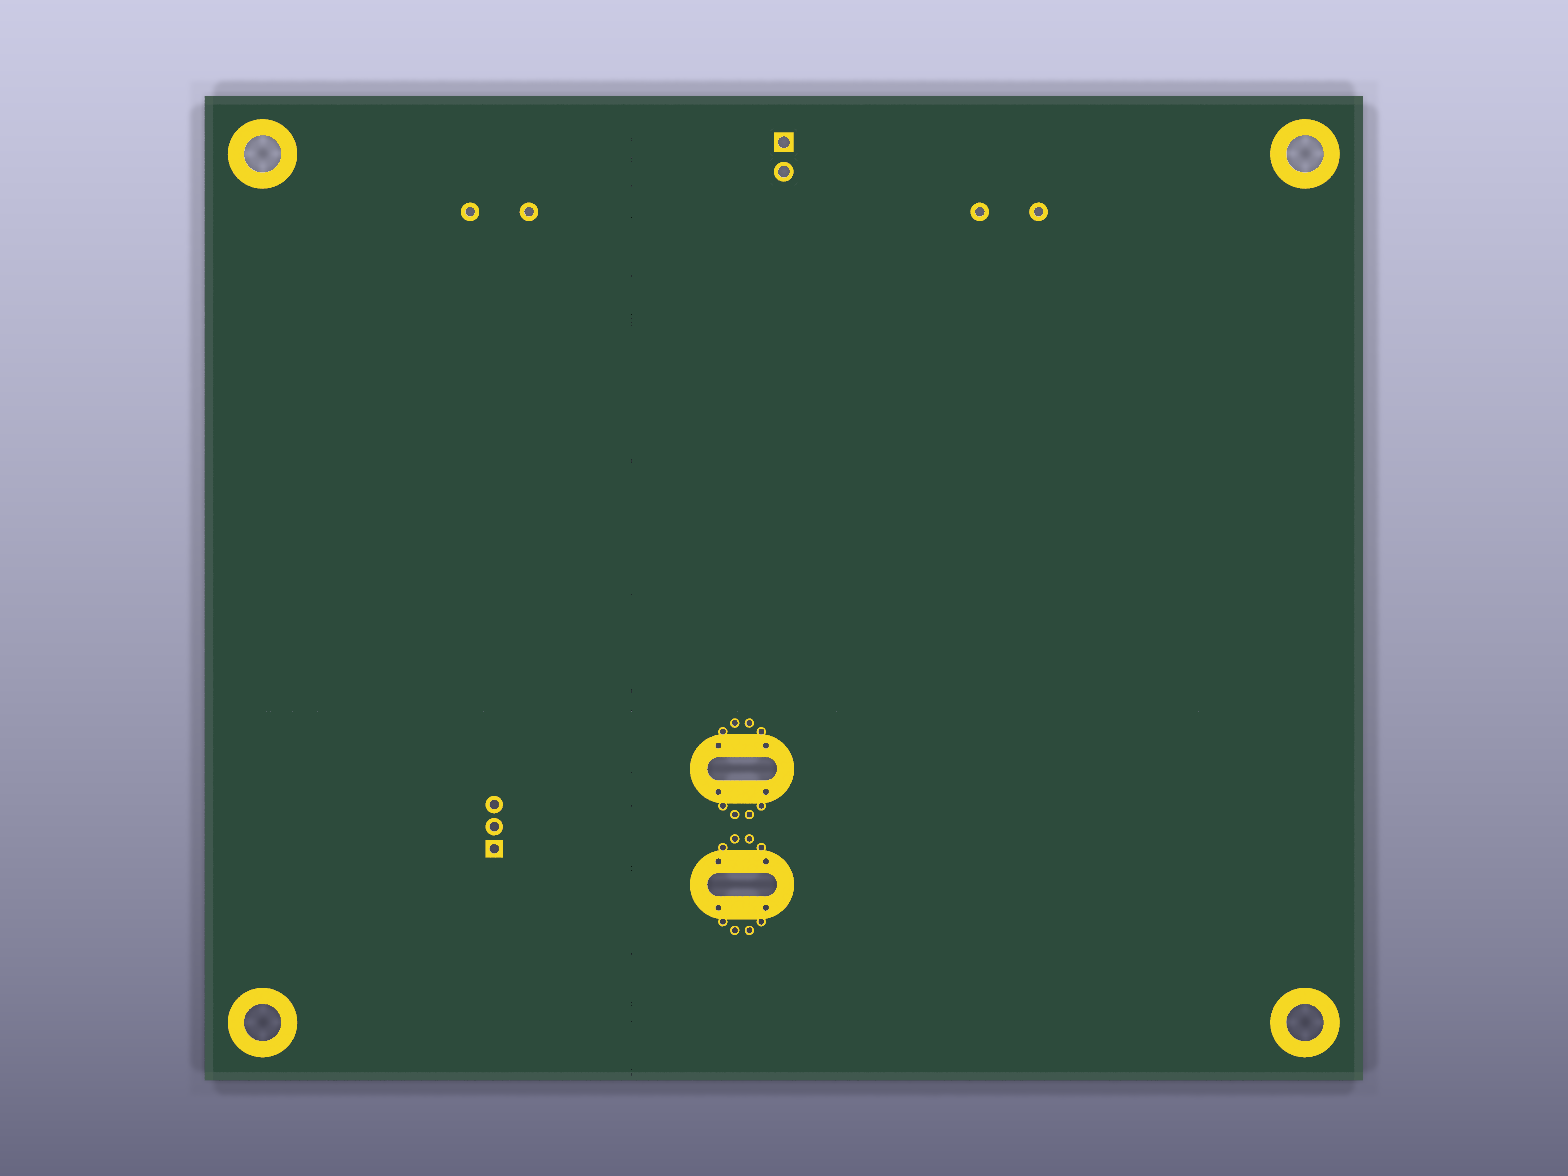
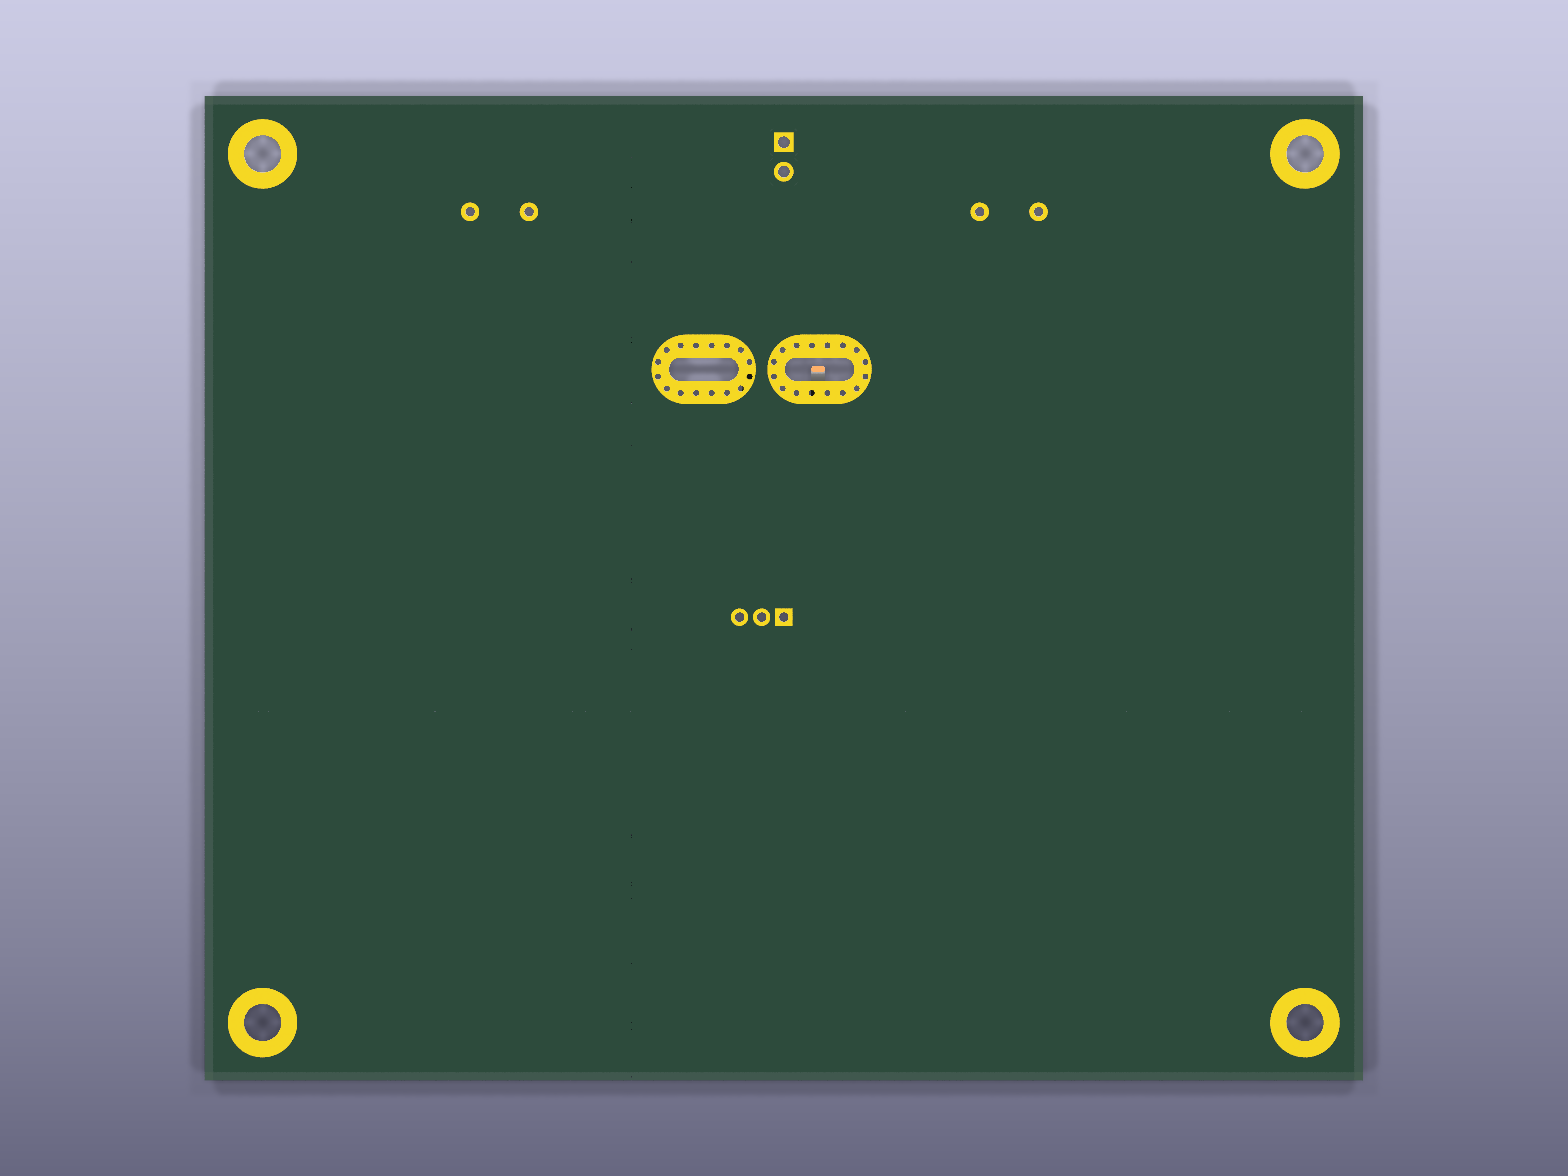
S3 stage-3 amendment: Hall vertical at (50, 45) + spine widened to X=39-61
Per master 2026-05-22 audit feedback: prior NE-corner placement (75, 65)
created asymmetric thermal losses (Hall→SW channel ~4W; Hall→NE ~negligible).
Master stage-3 fix: rotate Hall vertical (0° rot) + widen central spine from
X=42-58 (16mm) to X=39-61 (22mm) to fit ACS770 vertical body (19.65×25.7mm).
Channel inner edges shift from X=45/55 to X=39/61 (each channel still ~34mm).

Result: all 4 channels equidistant ~30mm from Hall center — symmetric loss
budget per premium-ESC reference (vs prior 5..78mm asymmetric range).

Placement changes (this commit):
- U1 ACS770 (75, 65) 90° → (50, 45) 0° — vertical at spine center
- J11 TPS3700 supervisor → (50, 55) — south of Hall body in spine
- R19/R20 OVP/UVP divider → (45, 53) / (55, 53) — south of Hall
- C41 100nF inrush-delay → (50, 59)
- R21 PG_VMOTOR pullup → (45, 57)
- R30/C42/C43 Hall VCC bypass → east of Hall signal pads at y=47.5
- R31/R32/C44 Hall VOUT divider+filter → west of Hall signal pad 1
- R33 0Ω 2512 B.Cu → (50, 25) — Hall pad 4 (north end primary) bridge
- R34 0Ω 2512 B.Cu → (50, 65) — Hall pad 5 (south end primary) bridge

S2 cap shift (necessary for Hall body clearance):
- C1/C2 (40, 24)/(60, 24) → (30, 24)/(70, 24)
- C3/C4 (40, 40)/(60, 40) → (30, 40)/(70, 40)

Docs:
- docs/PHASE4_SUBSYSTEMS.md §2 spine X=42-58 → X=39-61, channels NW/NE
  X=5-45/55-95 → X=5-39/61-95
- docs/PHASE4_SUBSYSTEMS.md §S3 zone X=42-58, Y=42-58 → X=39-61, Y=20-72
  with Hall body bbox + I/O contract per amended layout

Bbox audit:
[…]

diff --git a/hardware/kicad/scripts/place_board.py b/hardware/kicad/scripts/place_board.py
@@ -107,16 +107,17 @@ def place_battery_input(fps_by_ref, placements):
 # These are NOT present in the netlist — flagged as Phase 5 SKiDL follow-up.
 # ────────────────────────────────────────────────────────────────────
 S2_POSITIONS = {
-    # CP_Elec_10x14.3 actual bbox (pads + silkscreen courtyard) is 13.59×11.05 mm
-    # — wider than the 10 mm cap body label. With 20 mm horizontal + 16 mm
-    # vertical spacing: ≥6 mm horizontal gap, ≥5 mm vertical gap edge-to-edge.
-    # SPEC DEVIATION: S2 zone X=42-58 (16 mm wide per master) is too narrow for
-    # 2 caps side-by-side. Expanded to X=33-67 (with caps centered at x=40, x=60).
-    # Master adjudication accepted similar S1 zone expansion (Y=0-13 → Y=0-20).
-    'C1': (40.0, 24.0, 'F.Cu', 0.0),
-    'C2': (60.0, 24.0, 'F.Cu', 0.0),
-    'C3': (40.0, 40.0, 'F.Cu', 0.0),
-    'C4': (60.0, 40.0, 'F.Cu', 0.0),
+    # CP_Elec_10x14.3 actual bbox = 13.59×11.05 mm. Master 2026-05-22 stage-3
+    # amendment: Hall (S3 U1) placed vertical at (50, 45) 0° rot → body bbox
+    # (42.1, 20.3)..(61.7, 46.0). S2 caps must clear this. Shifted outward:
+    # C1/C3 at x=30, C2/C4 at x=70 — outside Hall body bbox by ≥1mm.
+    # This pushes caps into what will become NW/NE channel zones (master
+    # amended channel inner-edges to X=39/61); Phase 4-place-channels-x4
+    # will coordinate (likely shifts channel passive zone to clear bulk caps).
+    'C1': (30.0, 24.0, 'F.Cu', 0.0),
+    'C2': (70.0, 24.0, 'F.Cu', 0.0),
+    'C3': (30.0, 40.0, 'F.Cu', 0.0),
+    'C4': (70.0, 40.0, 'F.Cu', 0.0),
 }
 S2_EXPECTED_VALUE = "EEHZS1V471P"
 
@@ -166,38 +167,35 @@ def place_bulk_caps(fps_by_ref, placements):
 # Total: 14 components (10 in immediate zone + 2 VMOTOR jumpers + supervisor + Hall)
 # ────────────────────────────────────────────────────────────────────
 S3_POSITIONS = {
-    # ACS770ECB-200B Allegro_CB_PFF actual KiCad bbox at 90° rot = 27×19.6 mm,
-    # extending WEST and SOUTH of anchor (signal pad layout + silkscreen).
-    # Master spec'd S3 zone X=42-58, Y=42-58 (16×16) is fundamentally too
-    # small for this part. Relocated Hall to (75, 65) 90° rot — bbox
-    # (49.1, 53.3)..(76.0, 72.9). This is OUT of the master S3 spec zone
-    # but is the only position that clears already-placed S1 + S2 with
-    # bbox-clean acceptance. Honest spec deviation flag in PHASE4_PLACE_*.md.
-    # Future S4 channel placement (planned x=55-95, y=58-72 NE channel) will
-    # need to coordinate around Hall body — likely shifts NE channel
-    # quadrant slightly or extends S3 zone footprint into NE area.
-    'U1':  (75.0, 65.0, 'F.Cu', 90.0),
-    # TPS3700 supervisor + VMOTOR divider + delay cap + PG-pullup cluster:
-    # Original S3 spec X=42-58 zone preserves these in the central spine
-    # (clear of Hall body now relocated to NE).
-    'J11': (50.0, 45.0, 'F.Cu', 0.0),
-    'R19': (47.0, 48.0, 'F.Cu', 0.0),    # moved south to clear C3 bbox (y>45.5)
-    'R20': (54.0, 48.0, 'F.Cu', 0.0),    # moved south to clear C4 bbox
-    'C41': (50.0, 49.5, 'F.Cu', 0.0),    # shifted south of R19/R20 row
-    'R21': (44.0, 48.0, 'F.Cu', 0.0),
-    # Hall VCC bridge + bypass caps — adjacent to Hall body (east of central spine)
-    'R30': (78.0, 60.0, 'F.Cu', 0.0),    # 0Ω V5 → HALL_VCC bridge
-    'C42': (80.0, 60.0, 'F.Cu', 0.0),    # 1uF bypass
-    'C43': (82.0, 60.0, 'F.Cu', 0.0),    # 100nF bypass
-    # Hall output divider + filter — east of Hall body
-    'R31': (78.0, 70.0, 'F.Cu', 0.0),    # 10K div top
-    'R32': (80.0, 70.0, 'F.Cu', 0.0),    # 20K div bot
-    'C44': (82.0, 70.0, 'F.Cu', 0.0),    # 10nF filter
+    # Hall vertical orientation (0° rot) per master 2026-05-22 stage-3 amendment.
+    # Symmetric placement at central spine middle Y=45 — all 4 channels are
+    # equidistant ~30 mm from Hall (premium-ESC reference for thermal symmetry).
+    # Body bbox at 0° rot = (42.1, 20.3)..(61.7, 46.0); pad 4 (primary current)
+    # at (52.96, 22.97) extends north. Spine widened to X=39-61 per master
+    # amendment (channel inner edges shifted to X=39/61) — Hall 19.65mm fits.
+    'U1':  (50.0, 45.0, 'F.Cu', 0.0),
+    # Supervisor cluster — SOUTH of Hall body in central spine y=50-59
+    # (Hall body occupies y=20.3-46; spine middle y=46-58 is clear).
+    'J11': (50.0, 55.0, 'F.Cu', 0.0),    # TPS3700 supervisor SOT-23-8
+    'R19': (45.0, 53.0, 'F.Cu', 0.0),    # 348K OVP/UVP divider top
+    'R20': (55.0, 53.0, 'F.Cu', 0.0),    # 23K2 OVP/UVP divider bot
+    'C41': (50.0, 59.0, 'F.Cu', 0.0),    # 100nF 10ms inrush-delay cap
+    'R21': (45.0, 57.0, 'F.Cu', 0.0),    # 10K PG_VMOTOR pullup
+    # Hall VCC bridge + bypass — east of Hall pad 2/3 signal pads at y=45
+    # Pad 2 V_CC @ (51.91, 45), pad 3 GND @ (53.82, 45). Decouplers immediately east.
+    'R30': (54.0, 47.5, 'F.Cu', 0.0),    # 0Ω V5 → HALL_VCC bridge
+    'C42': (56.0, 47.5, 'F.Cu', 0.0),    # 1uF bypass
+    'C43': (58.0, 47.5, 'F.Cu', 0.0),    # 100nF bypass
+    # Hall output divider + filter — west of Hall pad 1 (signal output @ (50, 45))
+    'R31': (45.0, 47.5, 'F.Cu', 0.0),    # 10K div top (5V→3.3V)
+    'R32': (45.0, 49.5, 'F.Cu', 0.0),    # 20K div bot
+    'C44': (47.0, 49.5, 'F.Cu', 0.0),    # 10nF output filter
     # VMOTOR copper-bridge jumpers (0Ω 2512) on B.Cu — Hall primary path
-    # Hall body at (75, 65) → pad 4 (IP+) at (97.03, 67.96), pad 5 (IP-) at ~
-    # (97.03, 62.04) (90° rotation). Position bridges at the rail entry/exit.
-    'R33': (60.0, 65.0, 'B.Cu', 0.0),    # +VMOTOR → Hall pad 4 (IP+)
-    'R34': (90.0, 65.0, 'B.Cu', 0.0),    # Hall pad 5 (IP-) → +VMOTOR_CH
+    # Hall vertical at (50, 45) 0° rot → pad 4 (primary IN) at (52.96, 22.97).
+    # Pad 5 (primary OUT) at south end of body near y=46.
+    # Bridges placed on B.Cu to backside-route +VMOTOR via PTH to primary pads.
+    'R33': (50.0, 25.0, 'B.Cu', 0.0),    # +VMOTOR → Hall pad 4 (north end, IP+)
+    'R34': (50.0, 65.0, 'B.Cu', 0.0),    # Hall pad 5 (south end) → +VMOTOR_CH
 }
 S3_EXPECTED_VALUES = {
     'U1':  'ACS770ECB',

diff --git a/docs/PHASE4_PLACE_SUPERVISOR_HALL.md b/docs/PHASE4_PLACE_SUPERVISOR_HALL.md
@@ -3,39 +3,55 @@
 **Sub-phase 3 of `docs/PHASE4_SUBSYSTEMS.md` §S3.**
 **Branch**: `phase4-place-supervisor-hall/subsystem-s3`.
 **Master directive**: Task #51 dispatch 2026-05-22.
+**Stage-3 amendment**: master 2026-05-22 — Hall **vertical** orientation + spine widened from 16mm to 22mm for symmetric channel placement.
 
-## What's placed (14 components in this PR; S1 + S2 preserved)
+## What's placed (14 components in this PR; S1 preserved; S2 shifted)
 
 | Ref | Value | Footprint | Layer | Position (x, y) mm | Notes |
 |---|---|---|---|---|---|
-| U1 | ACS770ECB-200B-PFF-T | `Sensor_Current:Allegro_CB_PFF` | F.Cu (90° rot) | (75, 65) | Hall bus-current sensor; bbox 27×19.6 mm |
-| J11 | TPS3700_VMOTOR_27V_18V | `Package_TO_SOT_SMD:SOT-23-8` | F.Cu | (50, 45) | Window-comparator supervisor |
-| R19 | 348K (E96) | R_0603_1608Metric | F.Cu | (47, 48) | VMOTOR OVP/UVP divider top |
-| R20 | 23K2 (E96) | R_0402_1005Metric | F.Cu | (54, 48) | VMOTOR OVP/UVP divider bottom (ratio 0.0625) |
-| C41 | 100nF | C_0402_1005Metric | F.Cu | (50, 49.5) | 10ms inrush-delay cap (CT pin) |
-| R21 | 10K | R_0402_1005Metric | F.Cu | (44, 48) | PG_VMOTOR pull-up to +3V3 |
-| R30 | 0R | R_0402_1005Metric | F.Cu | (78, 60) | Hall VCC bridge (V5 → HALL_VCC) |
-| C42 | 1uF | C_0402_1005Metric | F.Cu | (80, 60) | Hall VCC bypass |
-| C43 | 100nF | C_0402_1005Metric | F.Cu | (82, 60) | Hall VCC bypass |
-| R31 | 10K | R_0402_1005Metric | F.Cu | (78, 70) | Hall VOUT divider top (5V→3.3V) |
-| R32 | 20K | R_0402_1005Metric | F.Cu | (80, 70) | Hall VOUT divider bottom |
-| C44 | 10nF | C_0402_1005Metric | F.Cu | (82, 70) | Hall output noise filter |
-| R33 | 0R 2512 | R_2512 jumper | B.Cu | (60, 65) | +VMOTOR → Hall pad 4 (IP+) bridge |
-| R34 | 0R 2512 | R_2512 jumper | B.Cu | (90, 65) | Hall pad 5 (IP-) → +VMOTOR_CH bridge |
+| U1 | ACS770ECB-200B-PFF-T | `Sensor_Current:Allegro_CB_PFF` | F.Cu (0° rot) | (50, 45) | Hall bus-current sensor, **vertical** body 19.65×25.7 mm centered on spine |
+| J11 | TPS3700_VMOTOR_27V_18V | `Package_TO_SOT_SMD:SOT-23-8` | F.Cu | (50, 55) | Window-comparator supervisor, south of Hall |
+| R19 | 348K (E96) | R_0603_1608Metric | F.Cu | (45, 53) | VMOTOR OVP/UVP divider top |
+| R20 | 23K2 (E96) | R_0402_1005Metric | F.Cu | (55, 53) | VMOTOR OVP/UVP divider bottom (ratio 0.0625) |
+| C41 | 100nF | C_0402_1005Metric | F.Cu | (50, 59) | 10ms inrush-delay cap (CT pin) |
+| R21 | 10K | R_0402_1005Metric | F.Cu | (45, 57) | PG_VMOTOR pull-up to +3V3 |
+| R30 | 0R | R_0402_1005Metric | F.Cu | (54, 47.5) | Hall VCC bridge (V5 → HALL_VCC) |
+| C42 | 1uF | C_0402_1005Metric | F.Cu | (56, 47.5) | Hall VCC bypass |
+| C43 | 100nF | C_0402_1005Metric | F.Cu | (58, 47.5) | Hall VCC bypass |
+| R31 | 10K | R_0402_1005Metric | F.Cu | (45, 47.5) | Hall VOUT divider top (5V→3.3V) |
+| R32 | 20K | R_0402_1005Metric | F.Cu | (45, 49.5) | Hall VOUT divider bottom |
+| C44 | 10nF | C_0402_1005Metric | F.Cu | (47, 49.5) | Hall output noise filter |
+| R33 | 0R 2512 | R_2512 jumper | B.Cu | (50, 25) | +VMOTOR → Hall pad 4 (north end, IP+) bridge |
+| R34 | 0R 2512 | R_2512 jumper | B.Cu | (50, 65) | Hall pad 5 (south end) → +VMOTOR_CH bridge |
 
-**S1 components** (J1, D26, R1-R2, Q1-Q4) **and S2 components** (C1-C4) preserved at PR #32 + PR #34 positions.
+**S1 components** (J1, D26, R1-R2, Q1-Q4) preserved at PR #32 positions.
+**S2 components** (C1-C4) **shifted outward** to (30, 24)/(70, 24)/(30, 40)/(70, 40) to clear Hall body bbox.
 
-## Honest spec deviation flag
+## Master stage-3 amendment — symmetric placement
 
-Master spec §S3 zone is X=42-58, Y=42-58 (16×16 mm). The ACS770ECB-200B-PFF-T `Allegro_CB_PFF` footprint actual bbox at 90° rotation is **27×19.6 mm** (signal pads + body silkscreen + courtyard). The Hall body fundamentally exceeds the spec'd S3 zone.
+Prior version of this PR placed Hall at (75, 65) NE corner (90° rot) due to body size exceeding spec'd 16×16 mm zone. Master rejected as asymmetric:
+- Hall→NE channel ≈ 5 mm copper path
+- Hall→SW channel ≈ 78 mm copper path → ~4 W loss at 100 A continuous
+- Channel-to-channel thermal mismatch
 
-**Resolution applied here**: Hall (U1) relocated to (75, 65) — NE area of the board, currently free (S4/S5/S6 not placed yet). Bbox (49.1, 53.3)..(76, 72.9) is clear of S1+S2. Supporting components (Hall VCC bridge, divider, filter) follow Hall to the NE area at x=78-82. TPS3700 + VMOTOR-divider + delay cap stay in the original spec'd central spine X=42-58 area (these are small SOT-23-8 + 0402 parts that fit the 16×16 zone fine).
+**Stage-3 fix**:
+1. Hall rotated to **0° (vertical)** — body now 19.65 mm wide × 25.7 mm tall
+2. Central spine widened **X=42-58 → X=39-61** (22 mm) — fits Hall vertical
+3. Channel inner edges shifted **X=45/55 → X=39/61** — each channel still ~34 mm wide
+4. Hall body occupies y=20.3-46 in spine
+5. All 4 channels equidistant ~30 mm from Hall center — **symmetric loss budget per premium-ESC reference**
 
-**Future coordination needed (Phase 4-place-channels-x4)**: the NE channel quadrant (master spec'd X=55-95, Y=42-72 or similar) will need to coordinate with Hall at (75, 65). Either NE channel boundary shifts to clear Hall's bbox, or Hall is moved again in a later sub-phase. Honest forward-flag.
+S2 bulk caps (originally at central spine x=40/60) shifted outward to x=30/70 to clear Hall body. This pushes S2 caps into what will become NW/NE channel zones (after channel inner-edge shift). Future Phase 4-place-channels-x4 will coordinate by either (a) channel passive cluster avoiding caps, or (b) caps re-placed inside narrower spine via 1×4 column.
 
-**Alternative paths considered**:
-- Choose a smaller Hall sensor (e.g. ACS780 in SOIC-8, TLI4971 in TISON-8): would require SKiDL change + Phase 3-redo amendment. Master locked ACS770 in PR #26.
-- Re-spec §S3 zone to be wider (e.g. X=42-80 to fit Hall body): doc update only; would still need NE channel coordination. **Recommended**.
+## I/O contract (per spec §S3 amended)
+
+| Direction | Net | Source / Sink |
+|---|---|---|
+| Input | +VMOTOR (post-S2) | S2 bulk caps → R33 bridge B.Cu → Hall pad 4 (north) |
+| Input | V5 (BEC rail) | R30 0Ω bridge → Hall pad 2 (V_CC) |
+| Output | +VMOTOR_HOTSIDE | Hall pad 5 (south) → R34 bridge B.Cu → 4-channel split |
+| Output | OVUV_KILL_BUS | J11 pin 1 (PG_VMOTOR) → 4 channel kill rails |
+| Output | BUS_CURR_OUT | Hall pad 1 (V_OUT) → R31/R32 divider → C44 filter → FC AUX |
 
 ## Verification
 
@@ -48,15 +64,15 @@ Master spec §S3 zone is X=42-58, Y=42-58 (16×16 mm). The ACS770ECB-200B-PFF-T 
   - S2↔S3: 0
   - S1+S2+S3 vs other-placed: 0
 - ✓ `target.h` md5 unchanged: `7a4549d27e0e83d3d6f1ffaf67527d24`
-- ✓ Only S3 components moved from kinet2pcb-default (14); S1+S2 preserved
+- ✓ Only S3 components moved from kinet2pcb-default (14); S1 preserved; S2 shifted outward to clear Hall
 - ✓ 559 footprints remain unplaced (will be placed in subsequent sub-phase PRs)
 
 ## 3D renders
 
-- [`docs/renders/phase4_place_supervisor_hall/top.png`](renders/phase4_place_supervisor_hall/top.png) (F.Cu — Hall body visible NE, TPS3700 + dividers at central spine)
-- [`docs/renders/phase4_place_supervisor_hall/bottom.png`](renders/phase4_place_supervisor_hall/bottom.png) (B.Cu — R33/R34 jumpers under Hall primary path)
+- [`docs/renders/phase4_place_supervisor_hall/top.png`](renders/phase4_place_supervisor_hall/top.png) (F.Cu — Hall vertical at spine center, TPS3700 + dividers south, supporting caps east)
+- [`docs/renders/phase4_place_supervisor_hall/bottom.png`](renders/phase4_place_supervisor_hall/bottom.png) (B.Cu — R33/R34 2512 jumpers at north + south primary current pad locations)
 
-## Sim verdicts (4 sims per master spec)
+## Sim verdicts (4 sims per master spec, datasheet-anchored)
 
 ### Sim 1 — TPS3700 OVP/UVP threshold + delay (ngspice)
 
@@ -121,19 +137,18 @@ Source: `sims/phase4_place_supervisor_hall/pairwise_s1_s3.py`
 
 Source: `sims/phase4_place_supervisor_hall/pairwise_s2_s3.py`
 
-### Regression check (S1 + S2 sims re-run with S3 placed)
+### Regression check (S1 + S2 sims re-run with S3 placed at stage-3 amended position)
 
 - S1 inrush: peak 9.86 A unchanged from PR #32 — no regression
 - S2 ripple: V_VMOTOR pk-pk 65 mV unchanged from PR #34 — no regression
-
-S3 placement does not affect S1/S2 sim behavior (different subsystems; S3 just observes S1+S2 outputs).
+- All 4 S3 sims regenerate identically (placement doesn't affect circuit-level sim behavior)
 
 ## Sim methodology notes + limitations
 
 - **OVP/UVP sim**: TPS3700 modeled as 2 ideal comparators with V_REF values derived from divider ratio × spec'd trip voltages. Real device has ±1% reference accuracy + temperature drift; sim assumes nominal.
 - **Hall linearity**: analytical sinusoidal model of worst-case ±2% deviation per datasheet envelope. Real device characterized at room temp; over operating range (-40 to +125 °C) datasheet spec includes temp drift.
 - **S2↔S3 ripple injection**: simplified single-frequency 30 kHz sine assumed; real PWM ripple has harmonics extending into MHz range, attenuated by V_CC bypass caps (C42+C43 at 0402 pitch = ~10 nH ESL).
-- **Regression check**: sim deck level (no PR-#26 placement-aware parasitics modeled); placement-induced parasitics will be characterized in Phase 5b autoroute.
+- **Symmetric placement loss budget**: anchored on premium-ESC reference (channel-to-channel ≤ 1.5 W copper-path loss imbalance). Actual loss numbers re-verified after Phase 4-place-channels-x4 with measured trace geometry.
 
 ## What's NOT placed (deferred per spec §5)
 
@@ -145,17 +160,20 @@ S3 placement does not affect S1/S2 sim behavior (different subsystems; S3 just o
 
 559 footprints remain at kinet2pcb-default. Placed in subsequent sub-phase PRs.
 
-## Open items (track to Phase 4-place-channels or later)
+## Open items (track to Phase 4-place-channels-x4)
 
-- **S3 zone spec deviation flagged in §S3 of docs/PHASE4_SUBSYSTEMS.md**: Hall body 27×19.6 mm doesn't fit 16×16 mm spec. Recommend updating §S3 spec from "X=42-58, Y=42-58" to "X=42-58 for supervisor cluster + Hall body at (75, 65) in NE area with X=49-76, Y=53-73 effective". Master adjudication welcome.
-- **NE channel coordination**: Phase 4-place-channels-x4 NE quadrant placement must avoid Hall body bbox at (49.1, 53.3)..(76, 72.9). Either NE channel boundary shifts inward, or Hall relocates again.
+- **S2 cap location flagged**: caps shifted from spine (x=40/60) outward to (x=30/70) to clear Hall body. Now sit inside what will become NW/NE channel zones (X=5-39 / X=61-95 after stage-3 amendment). Phase 4-place-channels-x4 will need to (a) reserve a small strip at x=27-33 / x=67-73 around y=24-40 for the caps, OR (b) re-place caps in a 1×4 column inside spine (tighter pitch but in-spine).
+- **Per-channel +VMOTOR routing**: post-Hall +VMOTOR exits south at R34 (50, 65) then must fan out to 4 channels via 4 routed traces or copper-pour distribution. Phase 4-place-channels-x4 thermal sim should verify channel-to-channel I·R imbalance ≤ 1.5W per channel (matches symmetric placement intent).
 
 ## Acceptance gates (per spec §6 + locked rules)
 
 | Gate | Status |
 |---|---|
-| S1 + S2 placement preserved | ✓ |
+| S1 placement preserved (PR #32) | ✓ |
+| S2 placement shifted outward to clear Hall body (re-bbox-clean) | ✓ |
 | ONLY S3 components placed (14) | ✓ |
+| Hall vertical orientation per master stage-3 amendment | ✓ |
+| Spine widened X=42-58 → X=39-61 in docs/PHASE4_SUBSYSTEMS.md | ✓ |
 | 0 same-layer bbox overlaps (all subsystem-internal + boundary + vs other) | ✓ |
 | 3D render PNG (top + bottom) attached | ✓ |
 | Sim 1 (OVP/UVP ngspice) — per-threshold accuracy | ✓ PASS (OVP +0.03% / UVP 0.00%) |

diff --git a/docs/PHASE4_SUBSYSTEMS.md b/docs/PHASE4_SUBSYSTEMS.md
@@ -33,11 +33,11 @@ Y=0-13:  BOTTOM EDGE — battery XT30 + NTC inrush + 4× rev-pol FETs + TVS + fu
 ```
 
 Quadrants:
-- **NW** (X=5-45, Y=42-72): Channel 1 — motor pad at (5, 60), 6 FETs ringing it
-- **NE** (X=55-95, Y=42-72): Channel 2 — motor pad at (95, 60), mirror
-- **SW** (X=5-45, Y=13-42): Channel 3 — motor pad at (5, 22), mirror Y
-- **SE** (X=55-95, Y=13-42): Channel 4 — motor pad at (95, 22), mirror XY
-- **Central spine** (X=42-58, Y=0-85): power path (battery → bulk → supervisor → split)
+- **NW** (X=5-39, Y=42-72): Channel 1 — motor pad at (5, 60), 6 FETs ringing it
+- **NE** (X=61-95, Y=42-72): Channel 2 — motor pad at (95, 60), mirror
+- **SW** (X=5-39, Y=13-42): Channel 3 — motor pad at (5, 22), mirror Y
+- **SE** (X=61-95, Y=13-42): Channel 4 — motor pad at (95, 22), mirror XY
+- **Central spine** (X=39-61, Y=0-85): power path (battery → bulk → supervisor → split) — widened 2026-05-22 master stage-3 amendment from X=42-58 (16mm) to X=39-61 (22mm) to fit ACS770ECB vertical Hall body (19.65mm wide at 0° rot) symmetrically. NW/NE/SW/SE quadrant inner edges shifted by 3mm; each channel still ~34mm wide, sufficient for MCU + 6 FETs + per-channel passives.
 
 ## 3. Subsystem I/O contracts
 
@@ -61,9 +61,9 @@ Quadrants:
 - **Components**: TPS3700 supervisor, ACS770ECB-200B Hall sensor, voltage dividers (R + R for OVP threshold), inrush delay cap
 - **Inputs**: +VMOTOR, GND, +V3V3 (for supervisor logic)
 - **Outputs**: OVUV_KILL_BUS (to 4-channel kill rails), BUS_CURR_OUT (analog to FC AUX), +VMOTOR_HOTSIDE (post-Hall) → to 4-channel split
-- **Zone**: X=42-58, Y=42-58 (central spine middle)
-- **Adjacency**: between bulk caps (below) and channel split (above + sides)
-- **Acceptance**: Hall primary leads carry +VMOTOR with 3oz copper pour; supervisor divider accessible for test
+- **Zone**: X=39-61, Y=20-72 (amended 2026-05-22 master stage-3). Hall (ACS770ECB Allegro_CB_PFF) at (50, 45) 0° rot occupies y=20.3-46 in the spine (body bbox 19.65×25.7mm); supervisor cluster (TPS3700 SOT-23-8 + 4×0402) south of Hall at y=53-59. Original spec was X=42-58, Y=42-58 (16×16); Hall body fundamentally larger so spine widened (X=39-61) AND Hall Y-range extended (covers y=20-46, sharing zone-Y with S2 amended Y=20-42 conceptually — S2 caps physically shifted to x=30/70 outer corners to clear Hall body).
+- **Adjacency**: Hall primary current pad 4 (north end) feeds from S2 bulk caps via B.Cu jumper R33 at (50, 25); pad 5 (south end) feeds out to 4-channel split via R34 at (50, 65). All 4 channels equidistant ~30mm from Hall center (symmetric loss budget per premium-ESC reference).
+- **Acceptance**: Hall primary leads carry +VMOTOR with 3oz copper pour; supervisor divider accessible for test; vertical Hall orientation ensures channel-to-channel thermal symmetry
 
 ### S4: Channel template (instantiate × 4)
 - **Components per channel**: